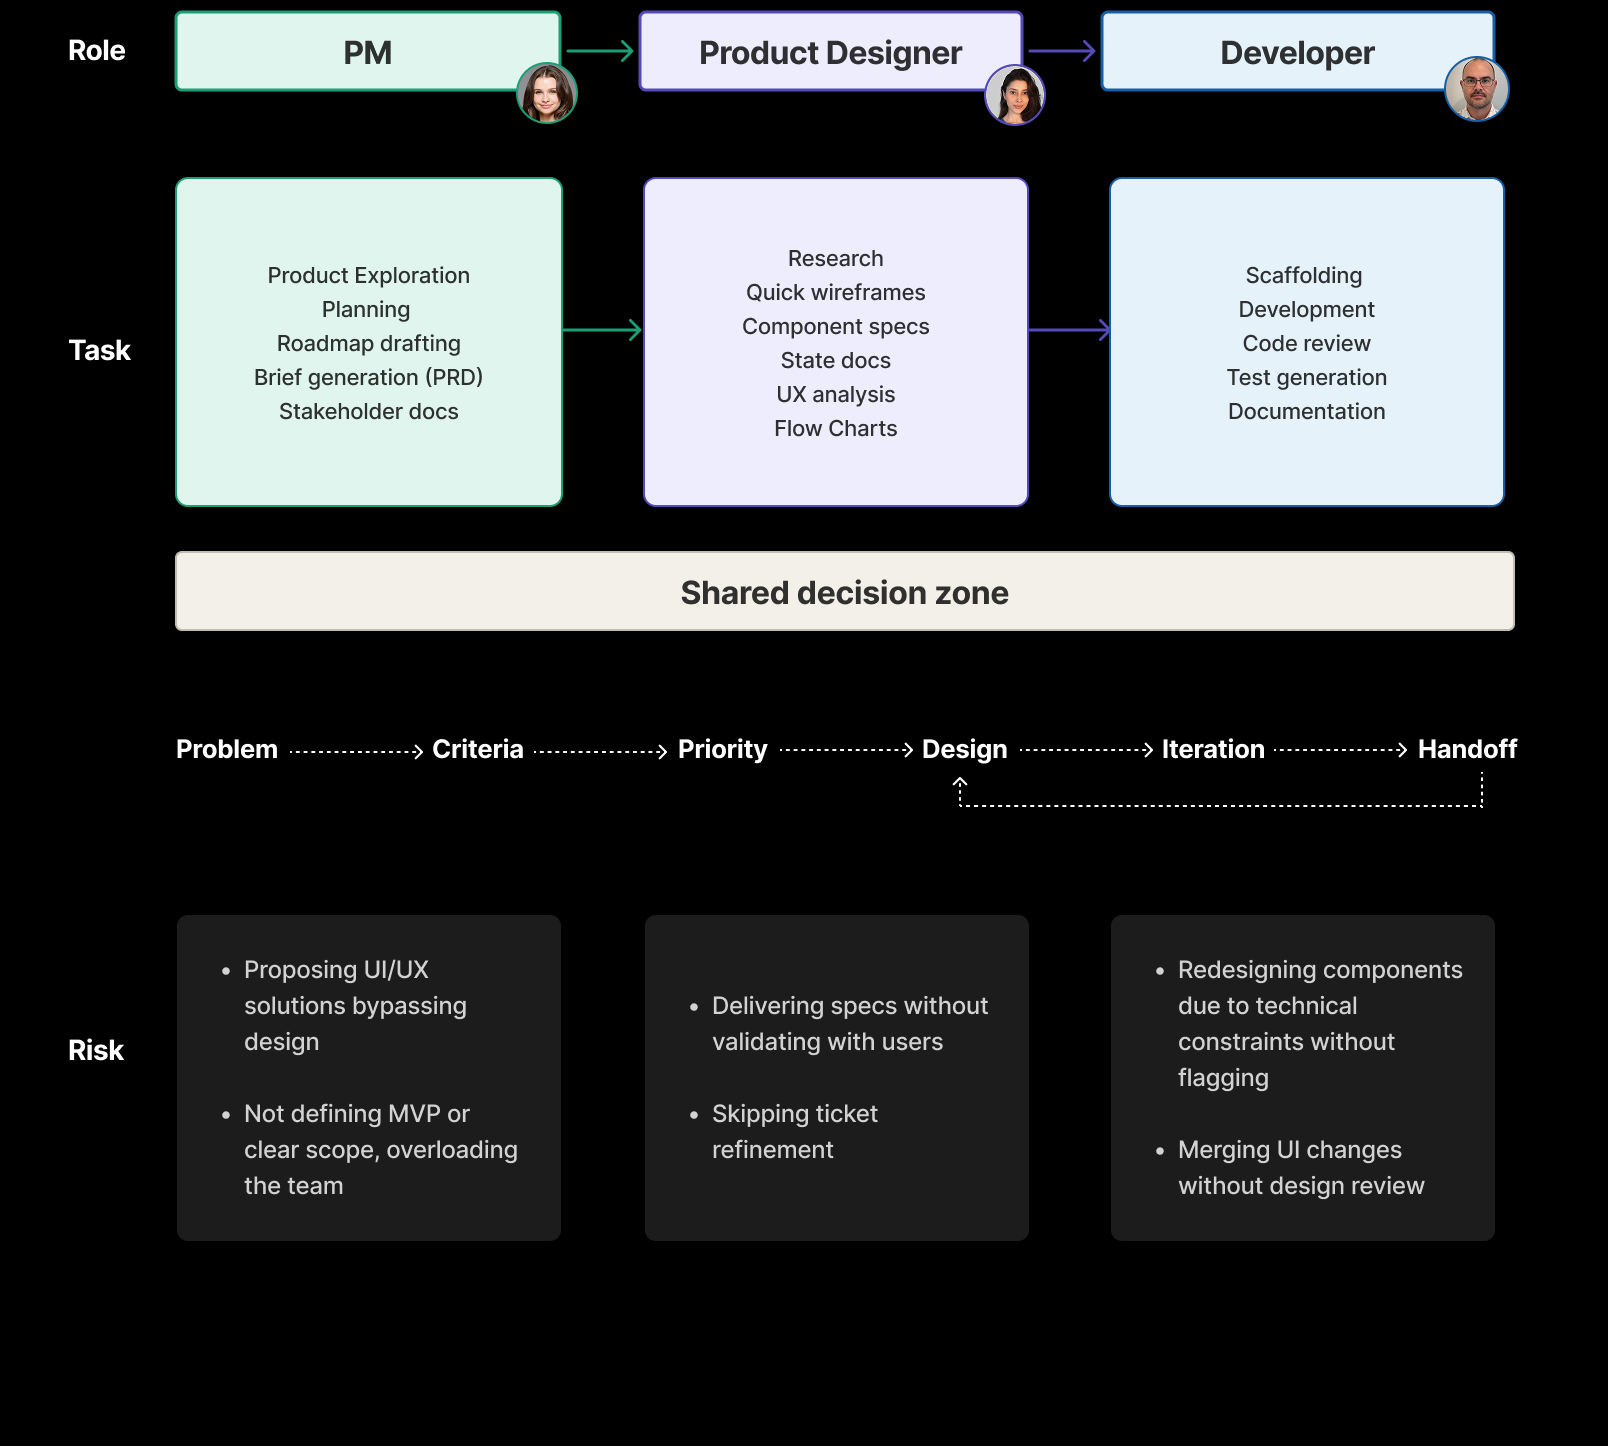
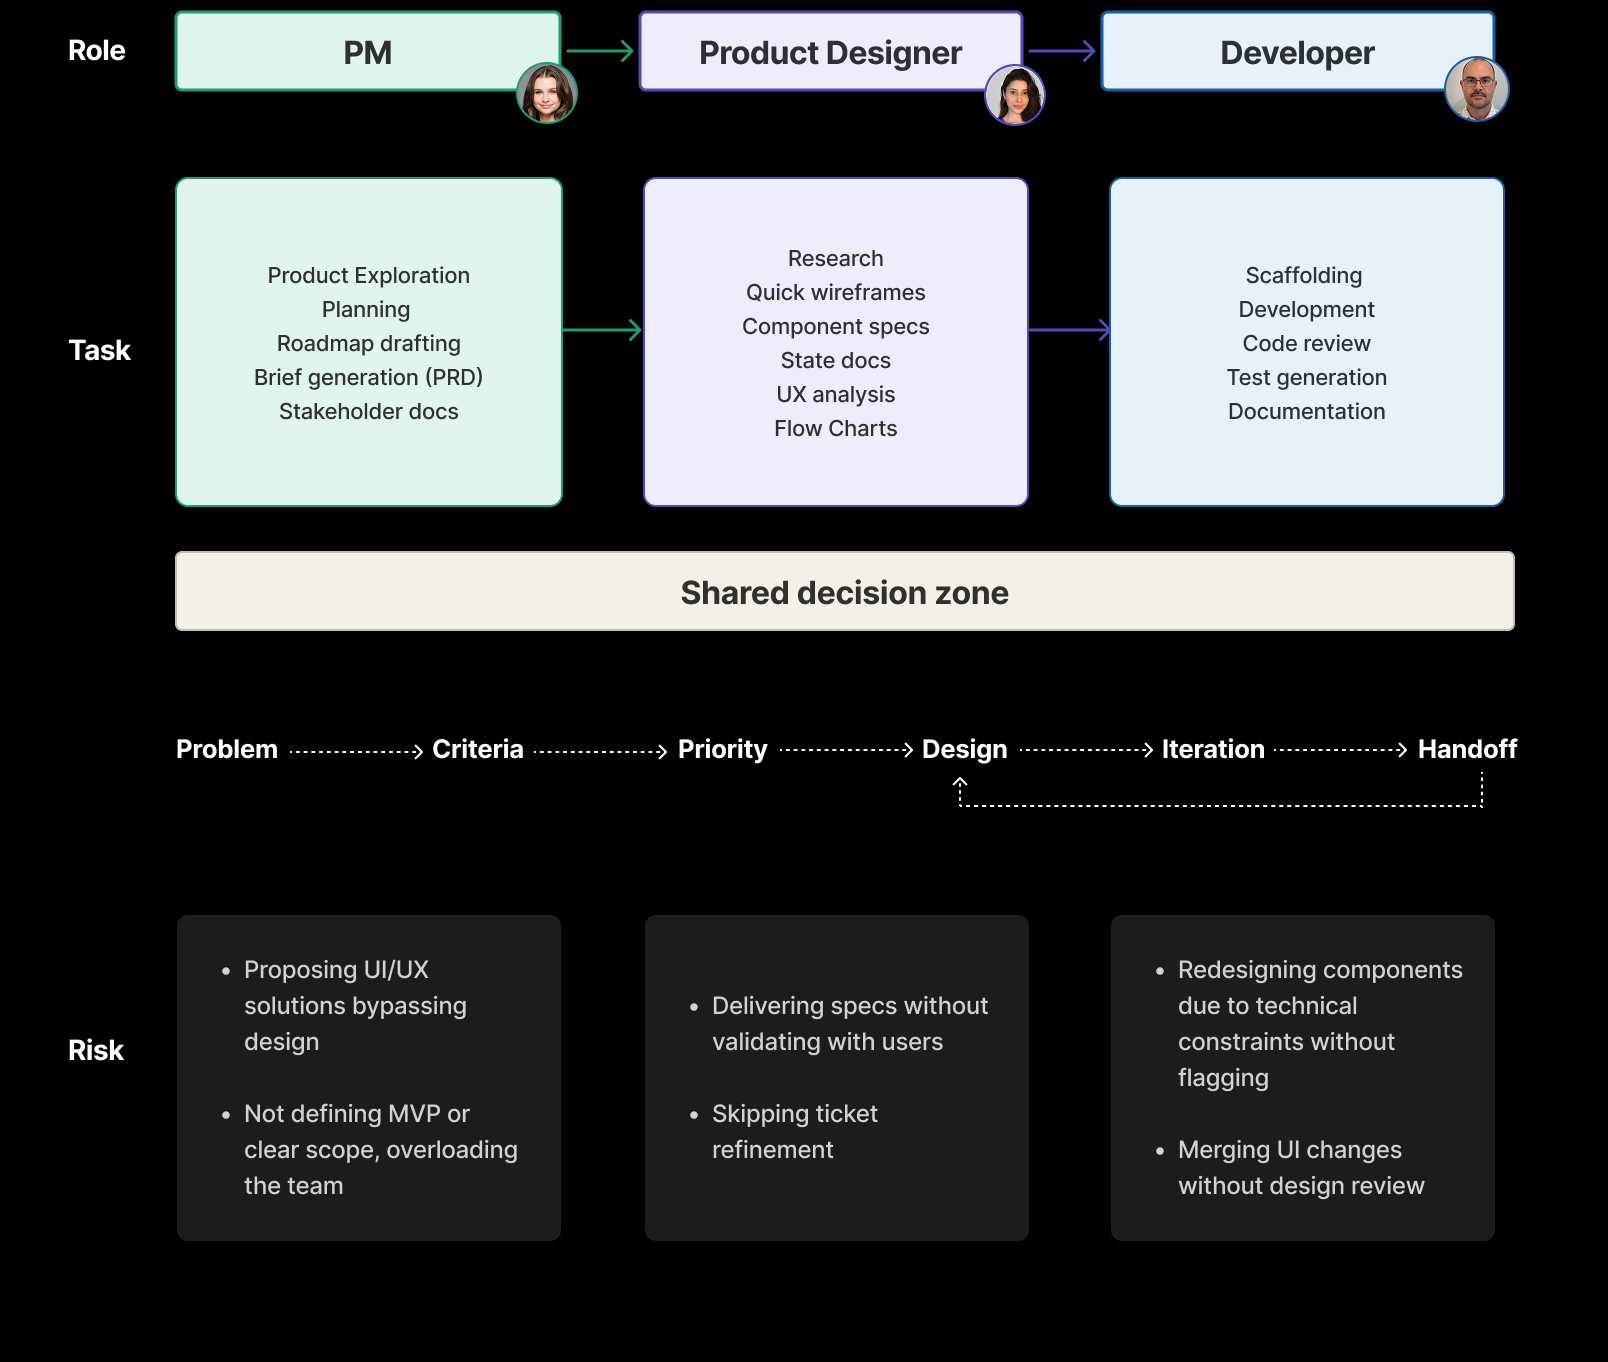
update

diff --git a/agentic-system-case-study.html b/agentic-system-case-study.html
@@ -805,7 +805,7 @@
 
         <!-- Content Block with Image -->
         <div class="bg-theme-primary px-8 py-8 scroll-animate" data-scroll>
-            <div class="w-full mx-auto flex flex-row gap-8 h-[600px] content-image-row pt-16">
+            <div class="w-full mx-auto flex flex-row gap-8 h-[700px] content-image-row pt-16">
                 <!-- Text Content -->
                 <div class="basis-0 grow flex flex-col justify-flex-start">
                     <div class="flex flex-row gap-10">
@@ -819,14 +819,14 @@
                     </div>
                 </div>
                 <!-- Image -->
-                <div <div class="basis-0 grow h-[300px]">
+                <div <div class="basis-0 grow h-auto">
                     <img src="assets/agentic-system-case-study/media-1.jpg" alt="Collaboration model — Sequential" class="w-full h-auto object-cover">
                 </div>
             </div>
         </div>
 
         <!-- What We Got Wrong Section -->
-        <div class="bg-theme-primary p-8 pb-0 scroll-animate" data-scroll>
+        <div class="bg-theme-primary p-8 scroll-animate" data-scroll style="padding-bottom: 0;">`
                 <div class="w-full">
                   <h2 class="font-syne font-medium text-[30px] leading-[1.4] text-theme-heading mb-14">What We Got Wrong</h2>
                   <div class="flex flex-col gap-8">
